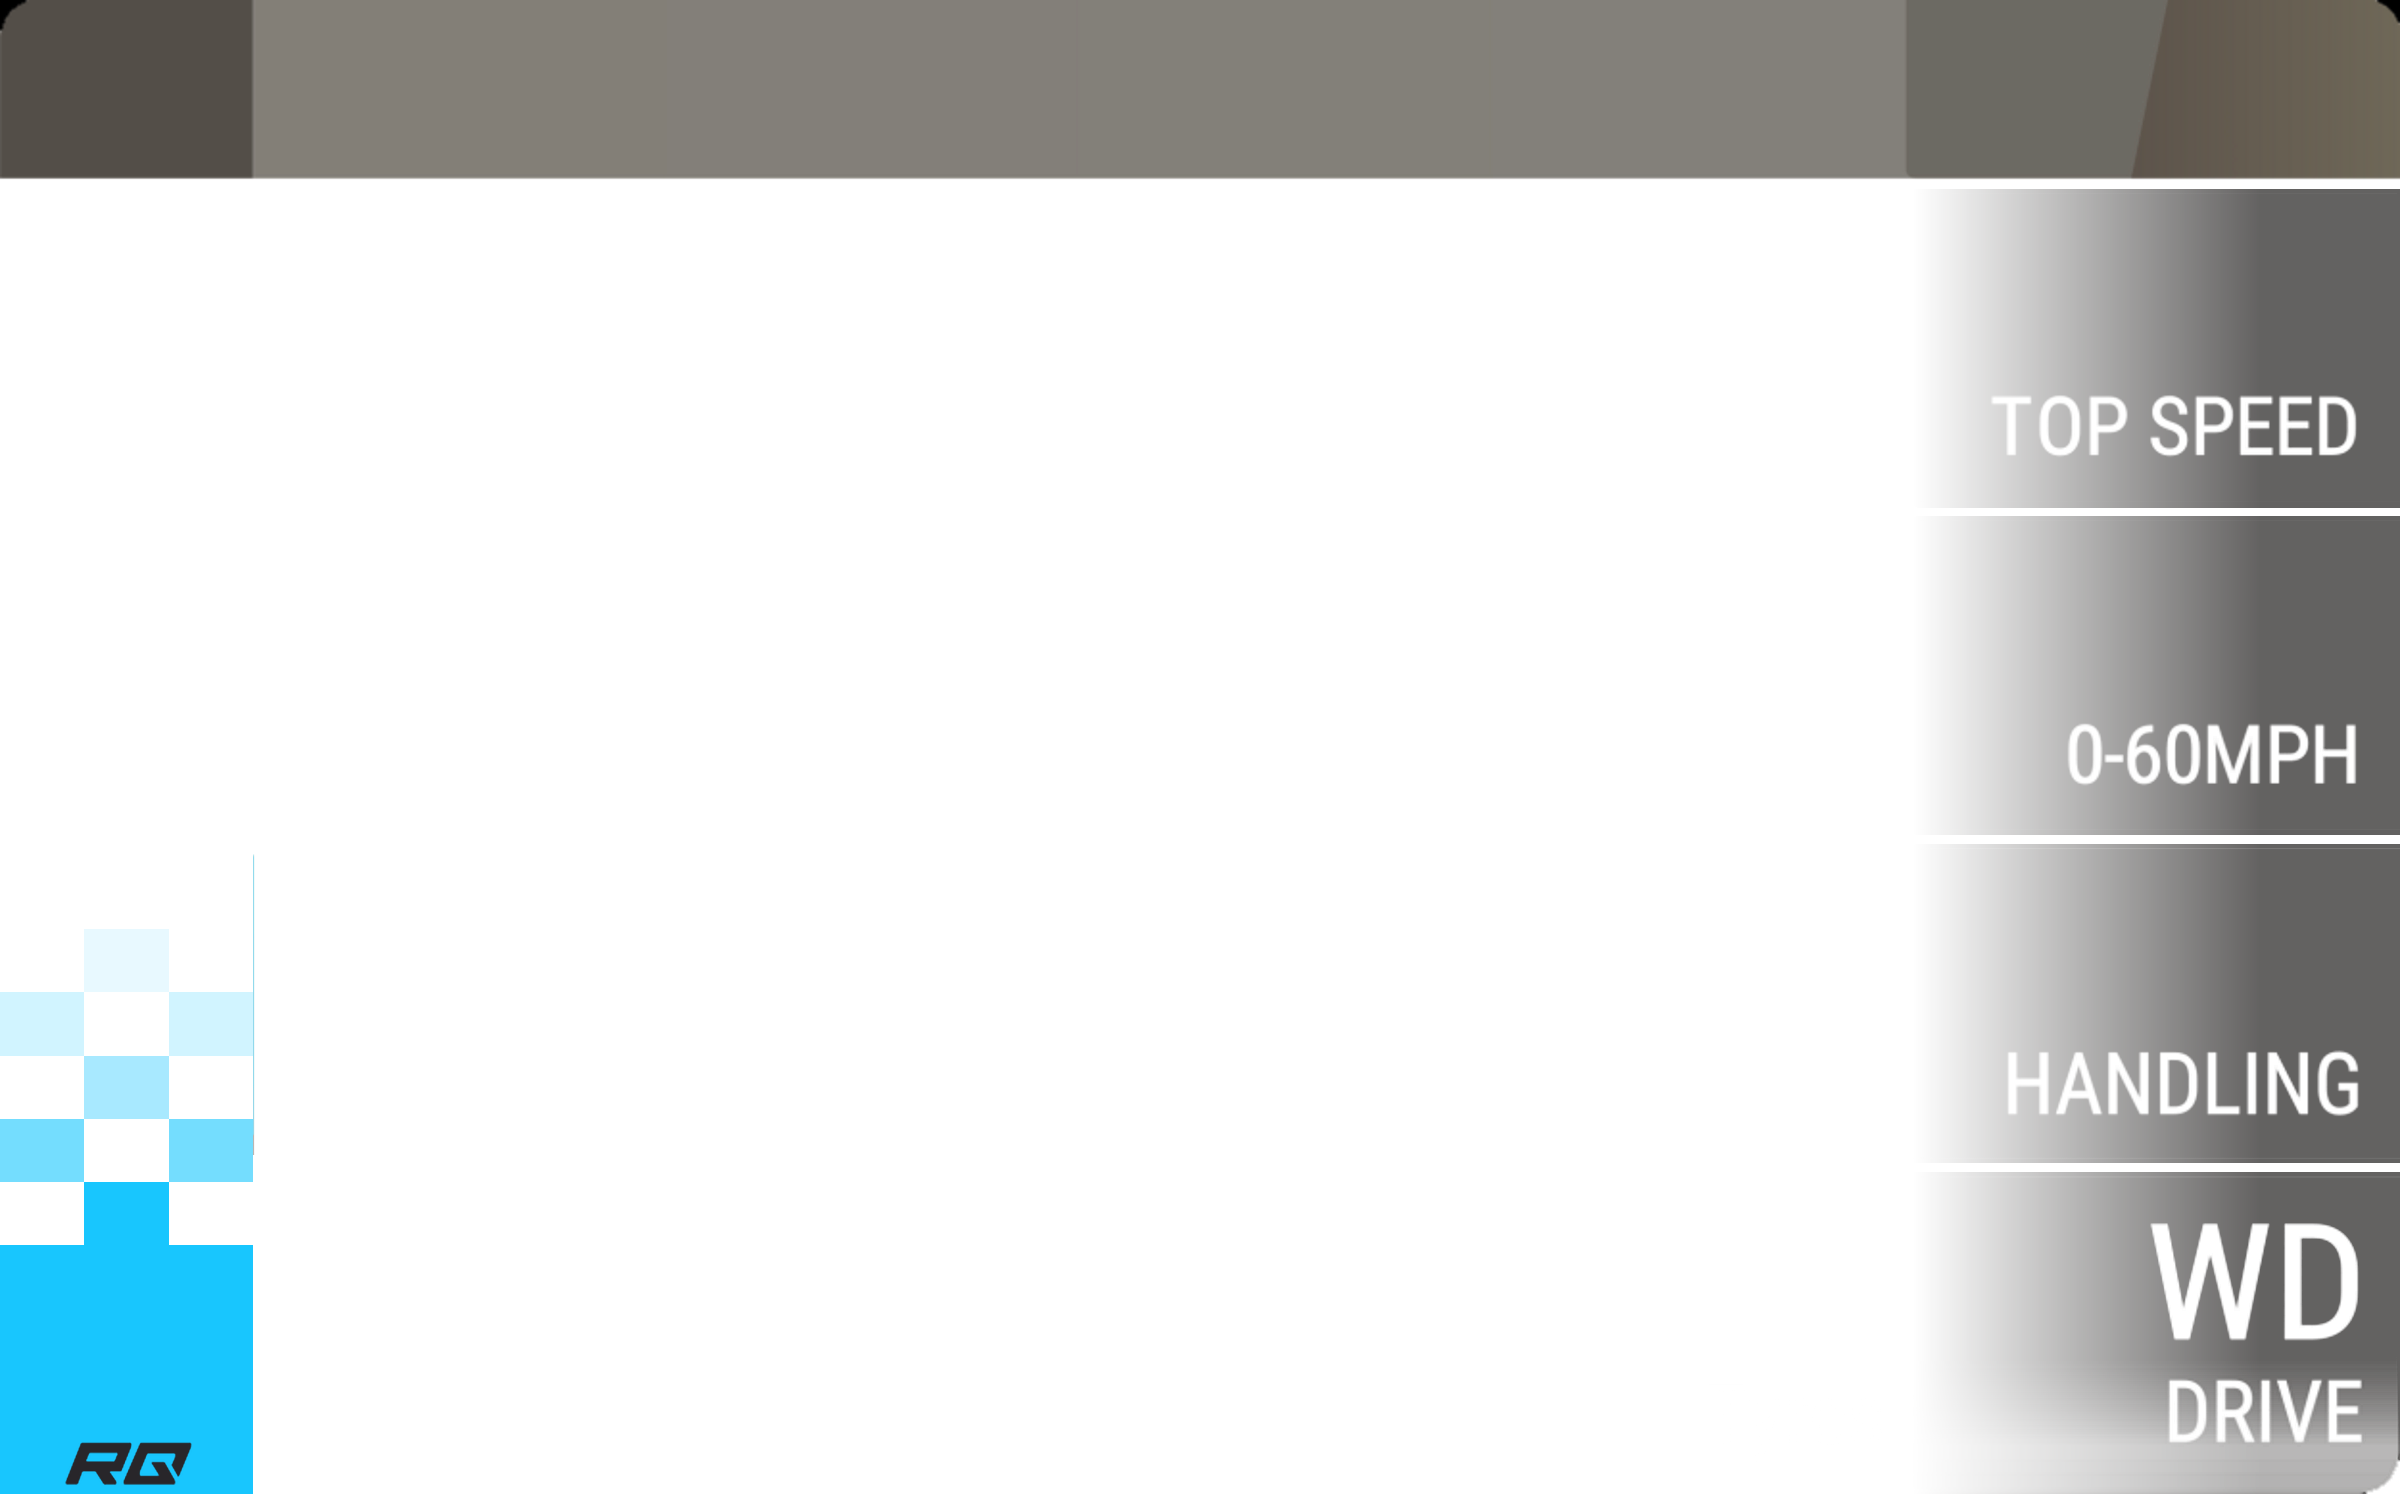
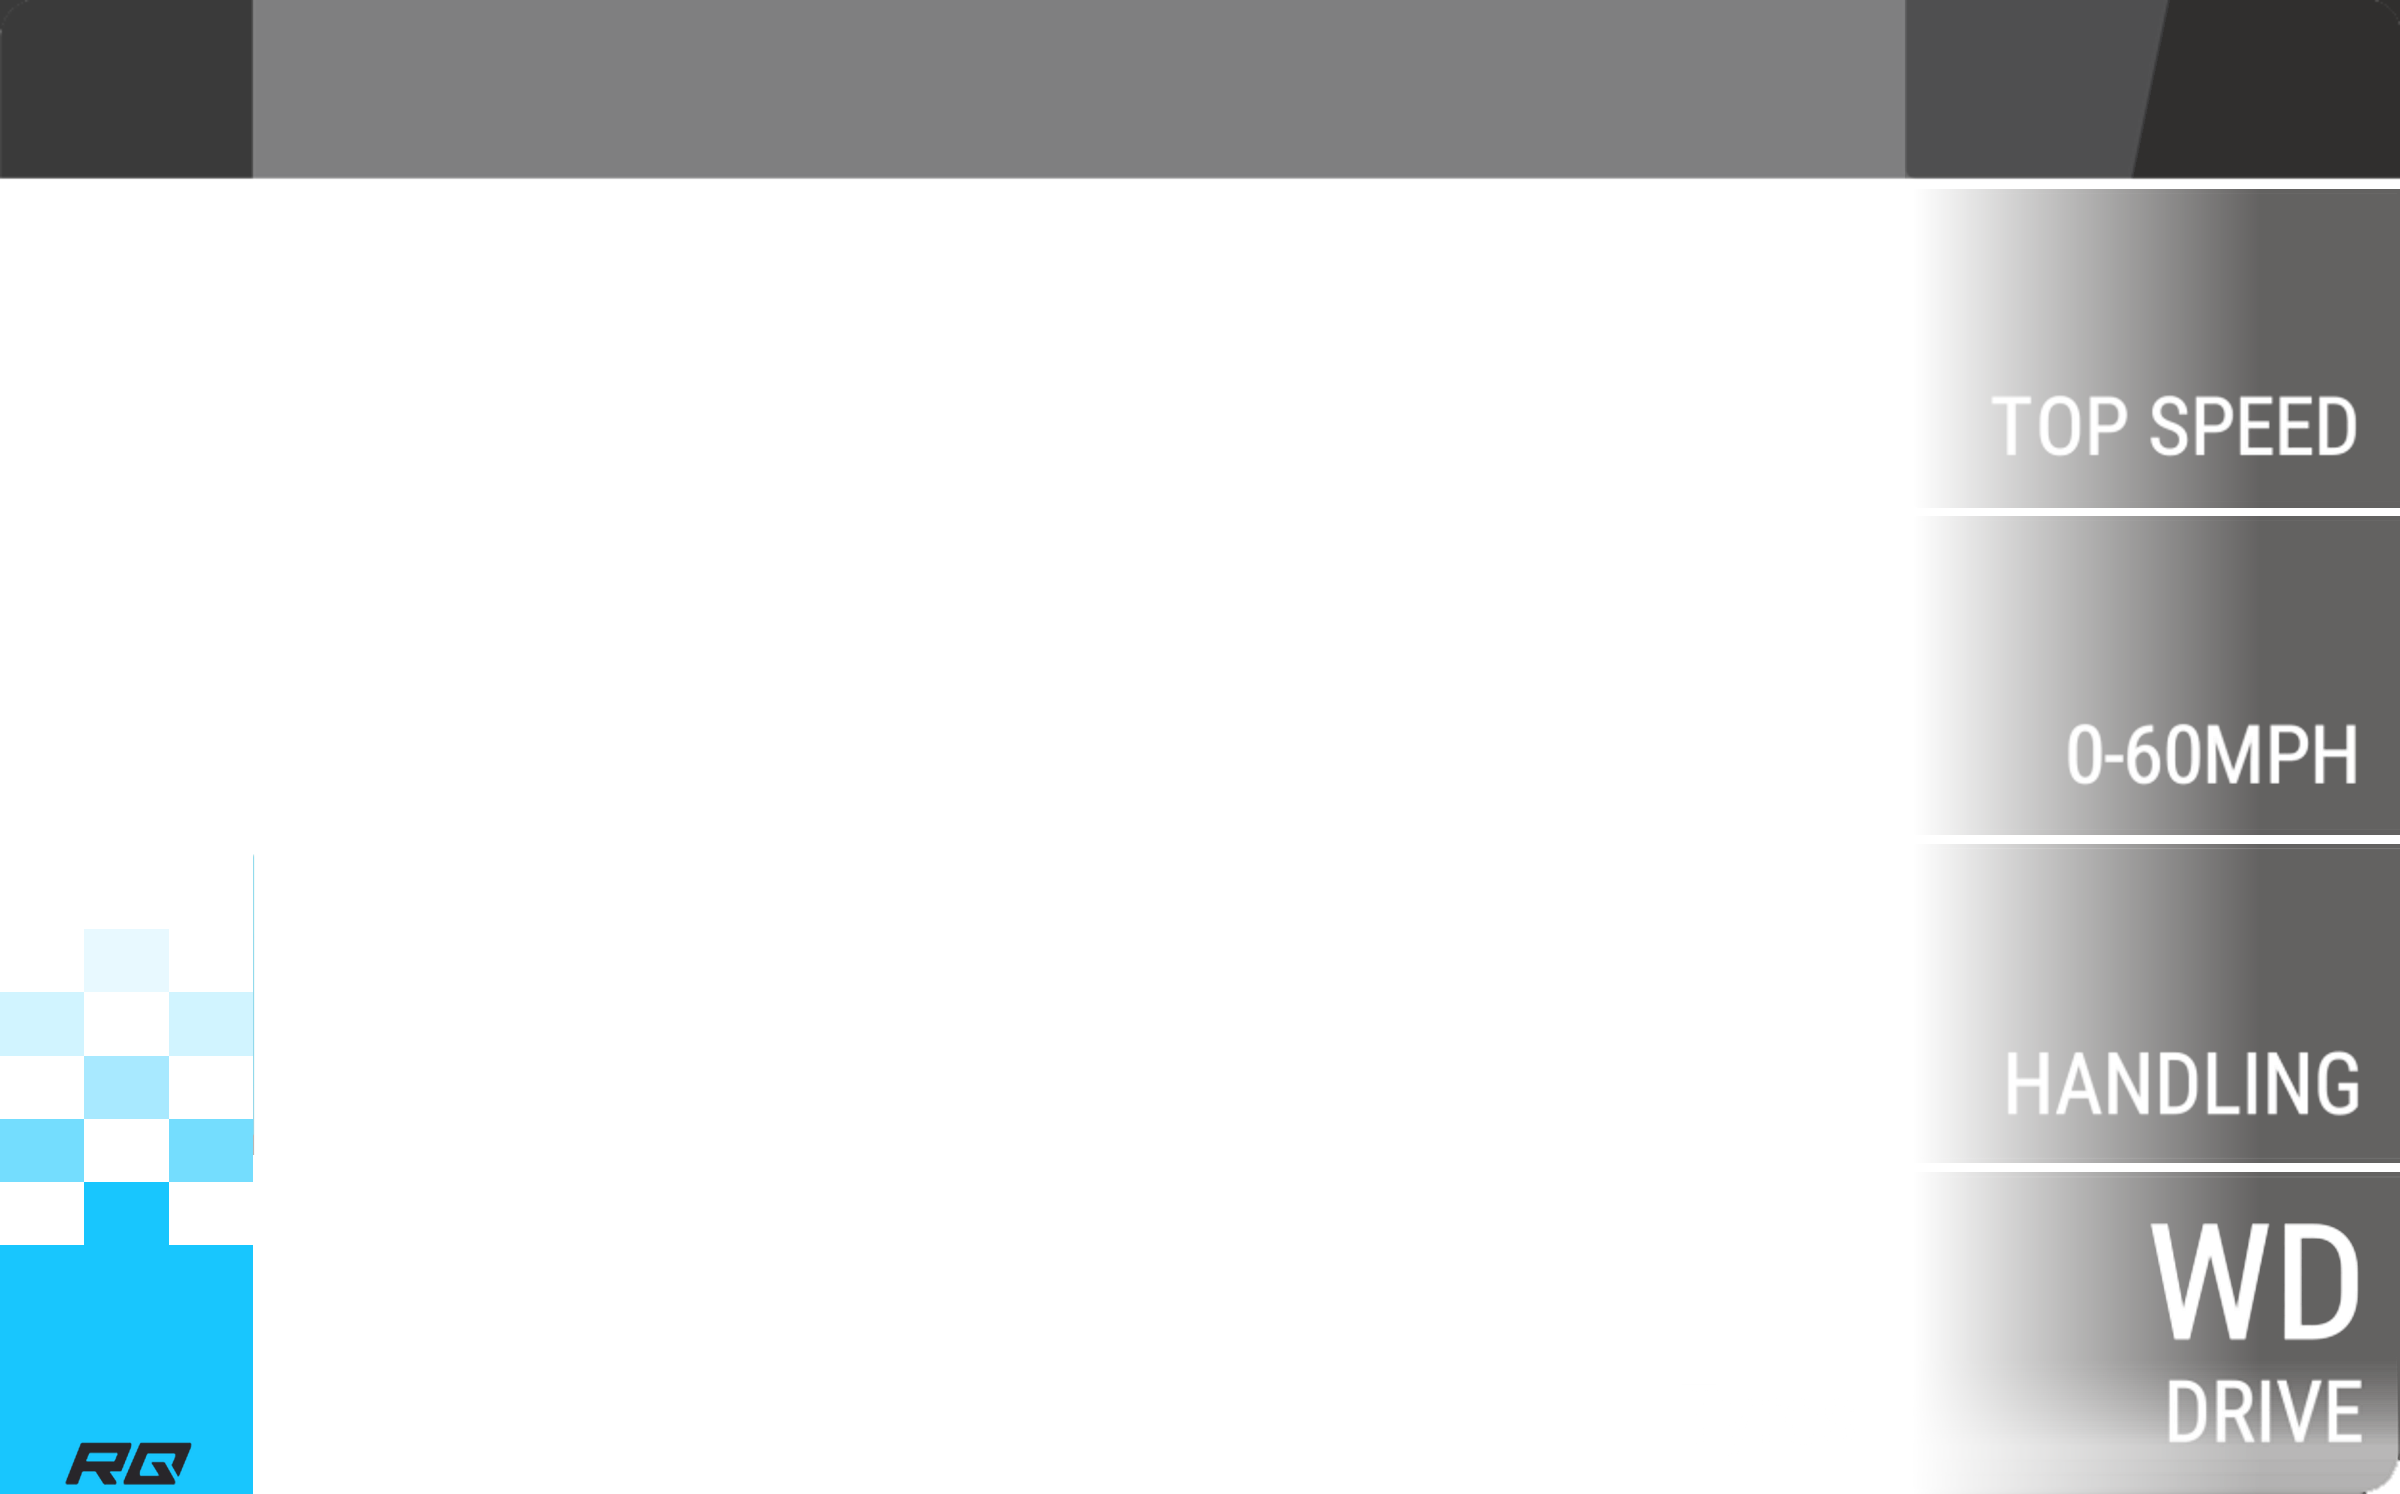
fix

Changed region(s): [[0.7812, 0.0, 1.0, 0.1232], [0.0, 0.0, 0.125, 0.1232]]

diff --git a/tool/make_modern_frames.py b/tool/make_modern_frames.py
@@ -25,6 +25,14 @@ RAMP_END = 1260       # x (card units) where they are darkest; the template's bl
 CHECK_TOP = 690       # the solid colour block starts here, the chequered flag sits above it
 CHECK_CELL = 35       # size of a square of the chequered flag
 CHECK_ALPHA = [1.0, 0.60, 0.38, 0.20, 0.10]   # row by row, upwards
+TYRES_DX = -15        # units: the words under the photo end at x=1034 like on the game's cards
+# The title row is neutral grey on the new cards (the standard frame is warm brown). Colours measured
+# on a card of the new design; transparency of every part is kept from the standard frame.
+TITLE_LOGO = (58, 58, 58)
+TITLE_BAR = (84, 84, 86)
+TITLE_YEAR = (55, 55, 56)
+TITLE_COUNTRY = (48, 47, 46)
+COUNTRY_EDGE = (1209.5, -0.2082)   # slanted left edge of the country block: x = a + b * y
 
 
 def px(x, y):
@@ -69,6 +77,17 @@ def build(letter, name):
     out = a.copy()
     cls = a[px(70, 480)[1], px(70, 480)[0], :3]          # class colour
     panel_bg = a[px(70, 700)[1], px(70, 700)[0], :3]     # brown RQ panel behind the logo
+
+    # --- title row: recolour the four parts, keep their shapes and transparency ---
+    ys_title = slice(0, px(0, 99.5)[1])
+    xs_all = np.arange(a.shape[1]) / FX
+    ys_all = np.arange(ys_title.stop) / FY
+    edge = COUNTRY_EDGE[0] + COUNTRY_EDGE[1] * ys_all[:, None]
+    X = np.broadcast_to(xs_all[None, :], (ys_title.stop, a.shape[1]))
+    part = np.where(X < 141, 0, np.where(X < 1062, 1, np.where(X < edge, 2, 3)))
+    for idx, rgb in enumerate((TITLE_LOGO, TITLE_BAR, TITLE_YEAR, TITLE_COUNTRY)):
+        sel = (part == idx) & (out[ys_title, :, 3] > 0)
+        out[ys_title, :, :3][sel] = rgb
 
     # --- sprites to keep (cut before the areas are cleared) ---
     tyres_cov, tyres_pos = sprite(a, (945, 765, 1062, 822),
@@ -130,7 +149,7 @@ def build(letter, name):
 
     # --- sprites back: dark RQ logo on the block, words under the photo, wrench ---
     put(out, logo_cov_arr, logo_pos, (40, 38, 42), scale=0.78, anchor=px(36, 799))
-    put(out, tyres_cov, tyres_pos, (255, 255, 255))
+    put(out, tyres_cov, tyres_pos, (255, 255, 255), anchor=(tyres_pos[0] + round(TYRES_DX * FX), tyres_pos[1]))
     put(out, wrench_cov, wrench_pos, (255, 255, 255), opacity=0.45, scale=1.5, anchor=px(185, 750))
 
     os.makedirs(OUT, exist_ok=True)

diff --git a/claude/claude.md b/claude/claude.md
@@ -139,7 +139,8 @@ claude/claude.md                 this file
   Measured from a Porsche 911 GT2 card: no stars/bottom strip, wrench 1.5x at (185,750), stat panels fading in from fully clear
   (alpha 0 -> 0.72 over x 1066..1260; the template's blur fades over the same width via `blurRegions[].fadeLeft`),
   colour block topped by a see-through chequered flag (35-unit squares, 3 columns, alpha fading upwards; class colour),
-  dark RQ number (`fields.rq.color`, y 699). Only class A was seen. `drivePrefix` has an explicit baseline (738, measured on a phone: 742 put the letter 3 px low) so the
+  dark RQ number (`fields.rq.color`, y 699). Title row recoloured neutral grey (logo 58, bar 84/84/86, year 55, country 48),
+  Modern has its own `titleStyles.fan` (brand 54.5, baseline 68.5, x 155) and tyres shifted -15 (frame sprite + `fields.tyre.x` 405). Only class A was seen. `drivePrefix` has an explicit baseline (738, measured on a phone: 742 put the letter 3 px low) so the
   F/R/4 stands on the baseline of the baked "WD".
 - Flag: `CardProject.showFlag`, `CountryFlags` (painted, simplified), `FlagBadge` between frame and texts, polygon and
   opacity in template `flag`. Works in every template.
